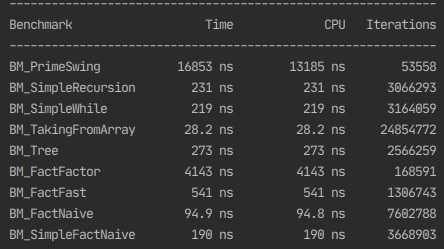
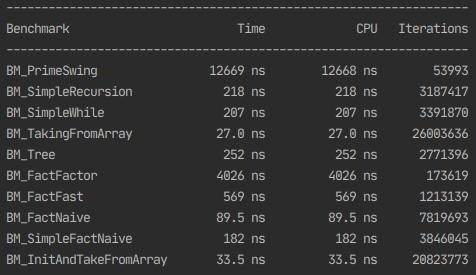
Update results

diff --git a/README.md b/README.md
@@ -27,6 +27,14 @@ As a result, more effective algorithm was
 However, the most efficient algorithm is one that simply returns values from an array: 
 [TakingFromArray](https://github.com/Ythosa/factorials/blob/54a93c3b326b5143bd223258fb385f78ad79ba75/factoriallib/falgo.cpp#L147) 
 (even if it initializes it: [InitAndTakeFromArray](https://github.com/Ythosa/factorials/blob/54a93c3b326b5143bd223258fb385f78ad79ba75/factoriallib/falgo.cpp#L158)).
+Other algorithms:
+* [SimpleFactNaive](https://github.com/Ythosa/factorials/blob/54a93c3b326b5143bd223258fb385f78ad79ba75/factoriallib/falgo.cpp#L302),
+* [SimpleWhile](https://github.com/Ythosa/factorials/blob/54a93c3b326b5143bd223258fb385f78ad79ba75/factoriallib/falgo.cpp#L124),
+* [SimpleRecursion](https://github.com/Ythosa/factorials/blob/54a93c3b326b5143bd223258fb385f78ad79ba75/factoriallib/falgo.cpp#L115),
+* [Tree](https://github.com/Ythosa/factorials/blob/54a93c3b326b5143bd223258fb385f78ad79ba75/factoriallib/falgo.cpp#L175),
+* [FactFast](https://github.com/Ythosa/factorials/blob/54a93c3b326b5143bd223258fb385f78ad79ba75/factoriallib/falgo.cpp#L252),
+* [FactFactor](https://github.com/Ythosa/factorials/blob/54a93c3b326b5143bd223258fb385f78ad79ba75/factoriallib/falgo.cpp#L203),
+* [Prime Swing](https://github.com/Ythosa/factorials/blob/54a93c3b326b5143bd223258fb385f78ad79ba75/factoriallib/falgo.cpp#L91).
 
 ## Links
 *	What is factorial: https://en.wikipedia.org/wiki/Factorial
